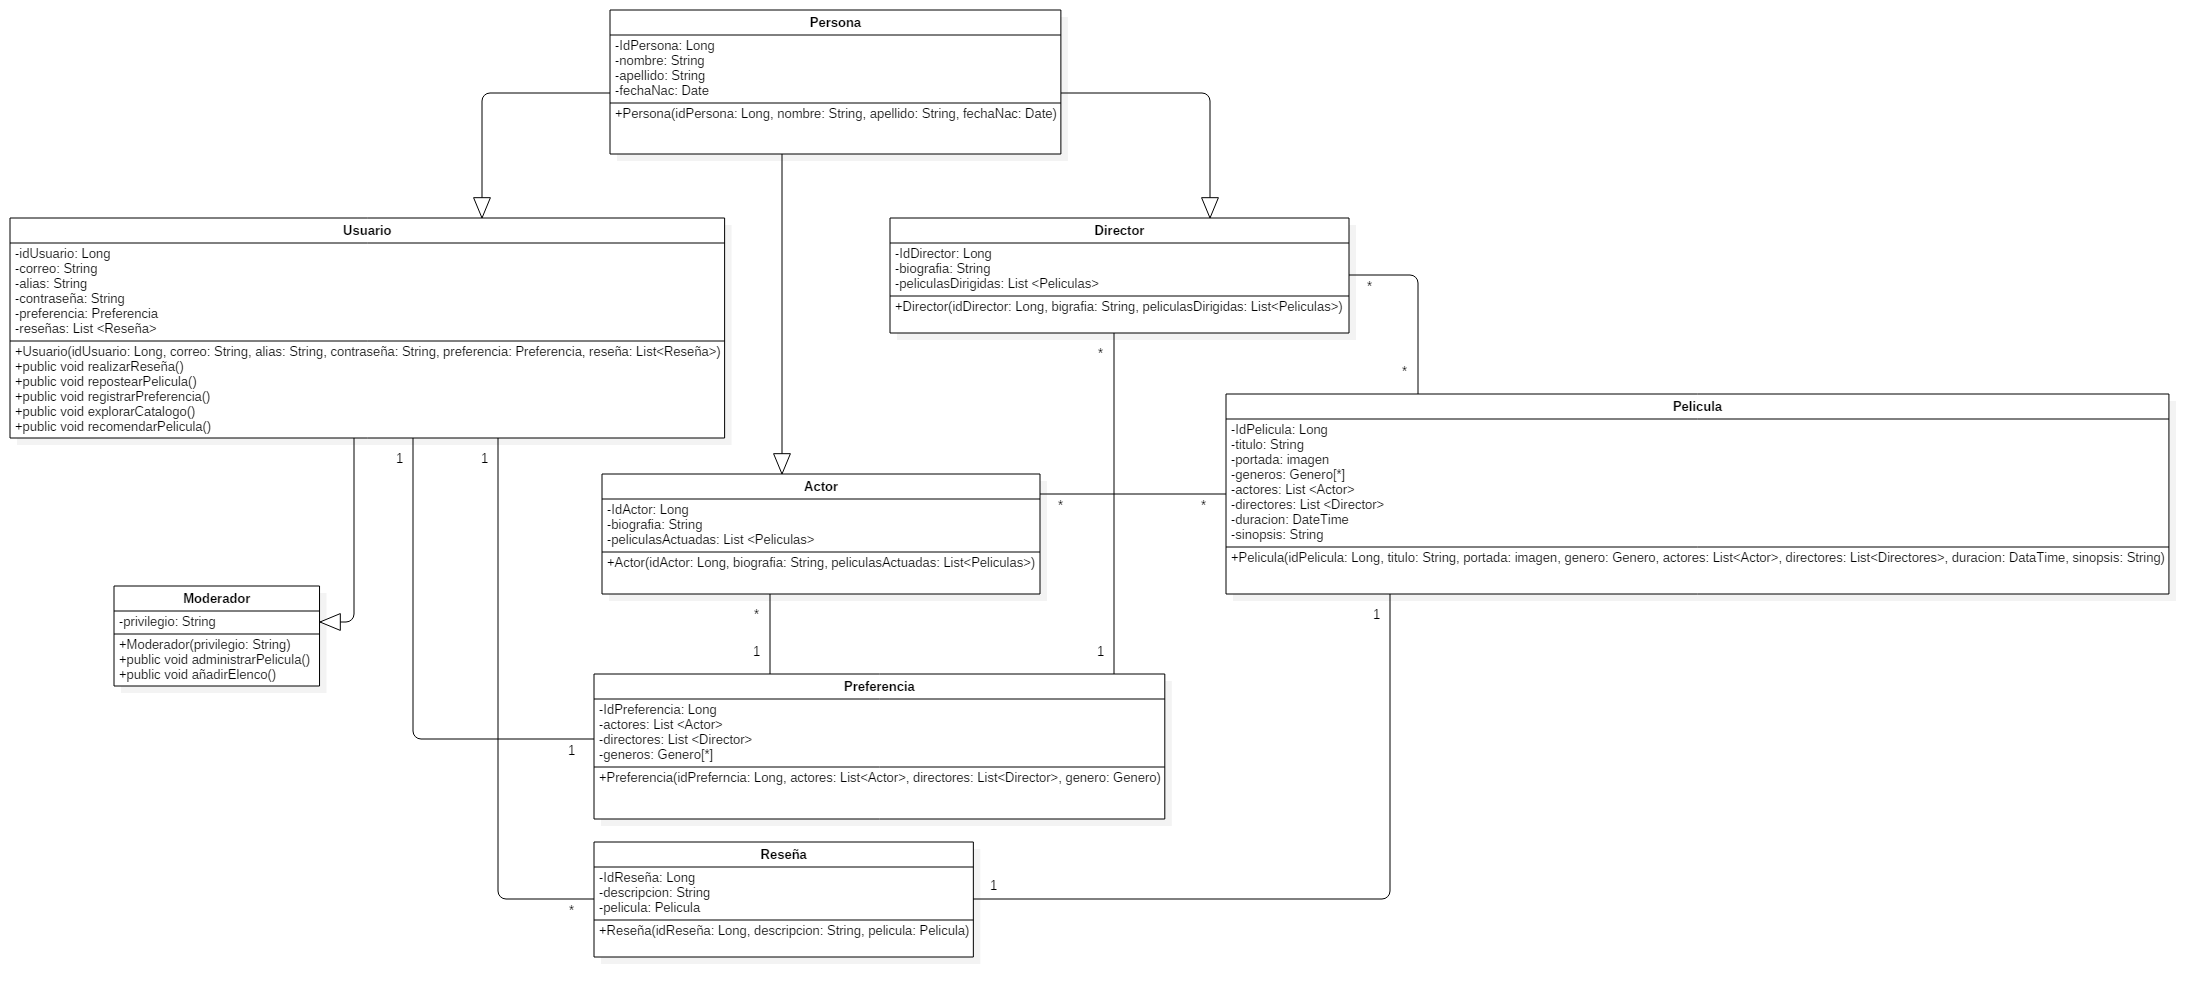
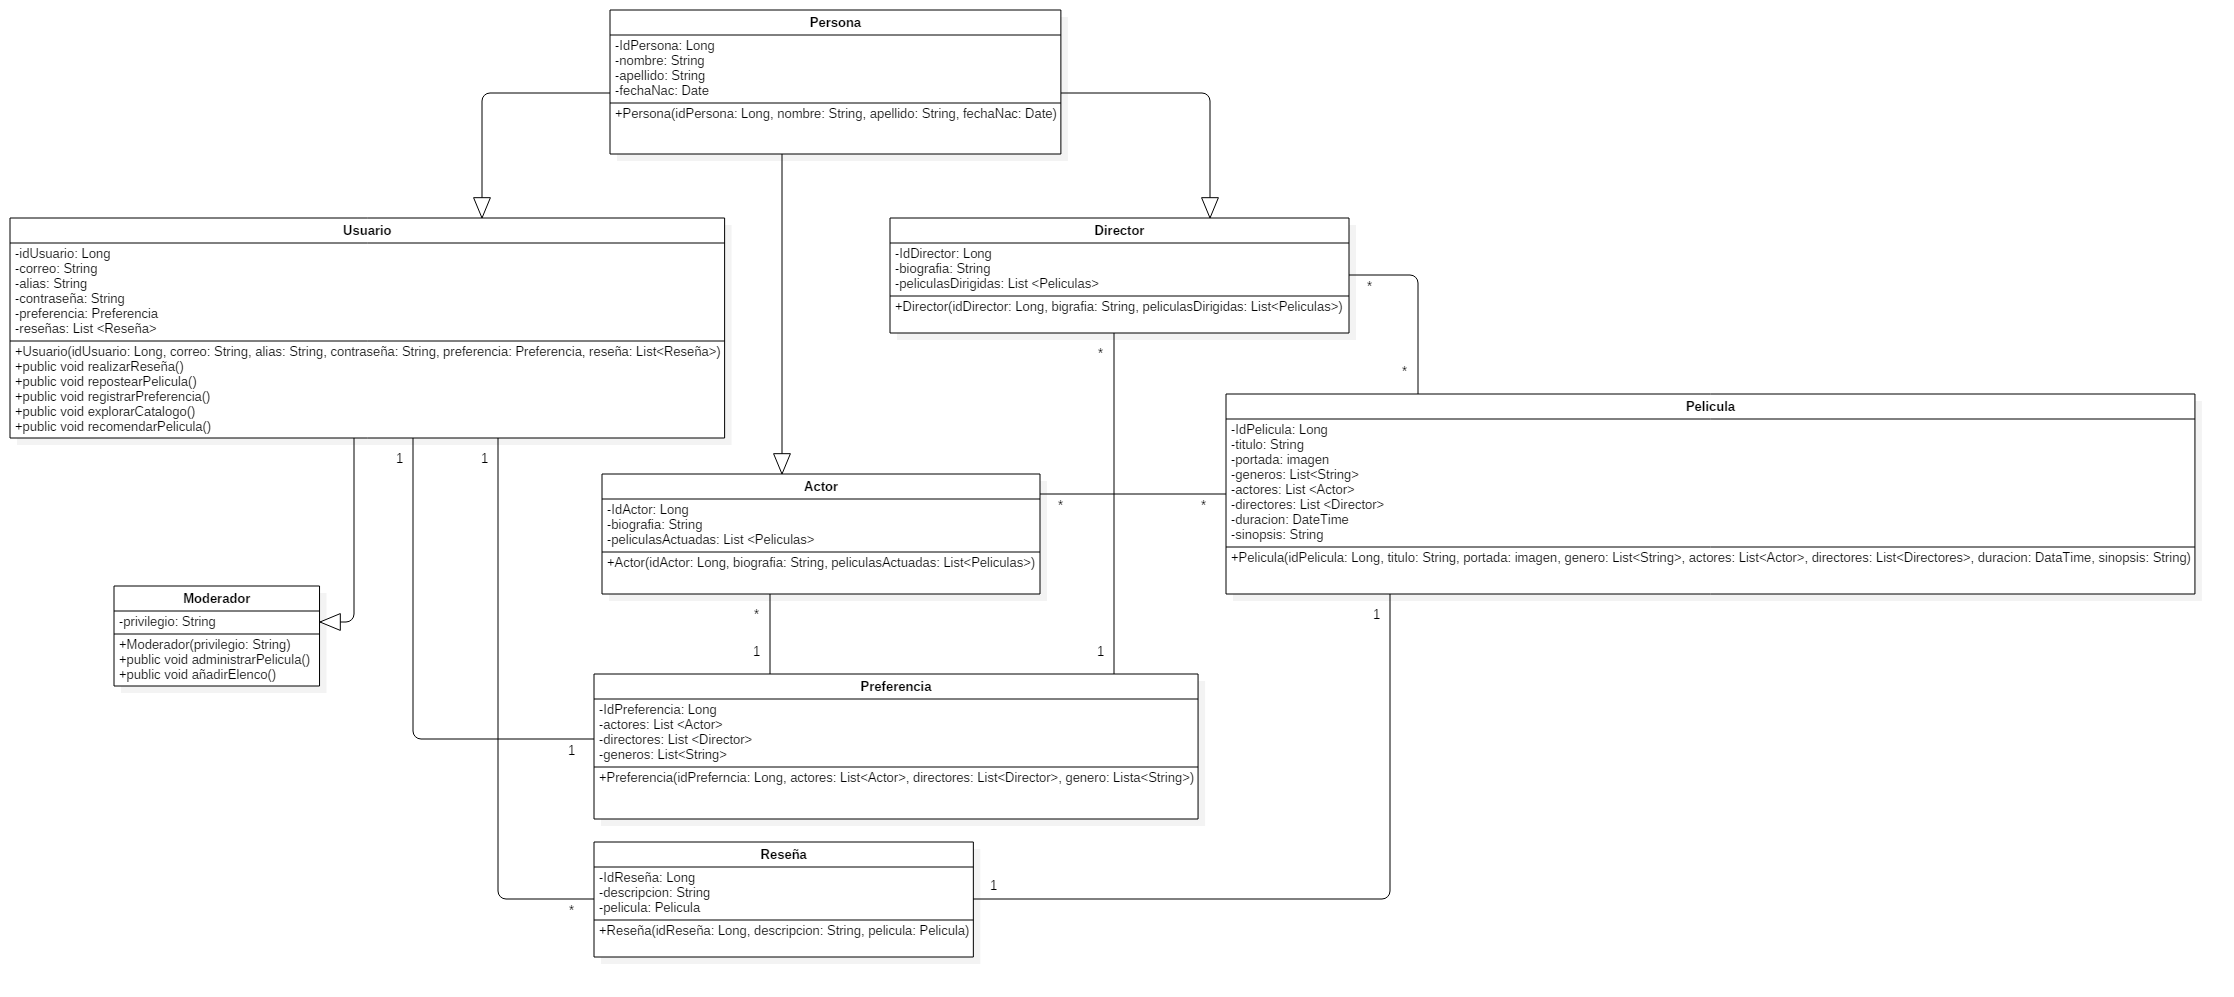
Modificacion en algunas clases y del diagrama de clases

diff --git a/PochocloCritics/src/main/java/org/pochocloapps/pochoclocritics/Pelicula.java b/PochocloCritics/src/main/java/org/pochocloapps/pochoclocritics/Pelicula.java
@@ -5,7 +5,9 @@
  */
 package org.pochocloapps.pochoclocritics;
 
+import java.util.ArrayList;
 import java.util.Date;
+import java.util.List;
 
 /**
  *
@@ -16,17 +18,18 @@ public class Pelicula {
     private String titulo ;
     private Date duracion;
     private String sinopsis;
-
+     private List<String> genero;
 //private Imagen portada;
-   // private Genero genero;
+   
     // private Actor actor;
     //private Director director;
 
-    public Pelicula(Long idPelicula, String titulo, Date duracion, String sinopsis) {
+    public Pelicula(Long idPelicula, String titulo, Date duracion, String sinopsis, List<String> genero) {
         this.idPelicula = idPelicula;
         this.titulo = titulo;
         this.duracion = duracion;
         this.sinopsis = sinopsis;
+        this.genero = genero;
     }
 
     public Long getIdPelicula() {
@@ -57,6 +60,14 @@ public class Pelicula {
 
     public void setSinopsis(String sinopsis) {
         this.sinopsis = sinopsis;
+    }
+
+    public void setGenero(List<String> genero) {
+        this.genero = genero;
+    }
+
+    public List<String> getGenero() {
+        return genero;
     }
     
 }

diff --git a/PochocloCritics/src/main/java/org/pochocloapps/pochoclocritics/Usuario.java b/PochocloCritics/src/main/java/org/pochocloapps/pochoclocritics/Usuario.java
@@ -51,4 +51,24 @@ public class Usuario {
     public void setContraseña(String contraseña) {
         this.contraseña = contraseña;
     }
+    
+    public void realizarReseña(){
+    }
+    
+    public void repostearPelicula(){
+    
+    }
+    
+    public void registrarPreferencias(){
+    
+    }
+    
+    public void explorarCatalogo(){
+    
+    }
+    public void recomendarPelicula(){
+    
+    }
+    
+    
 }
